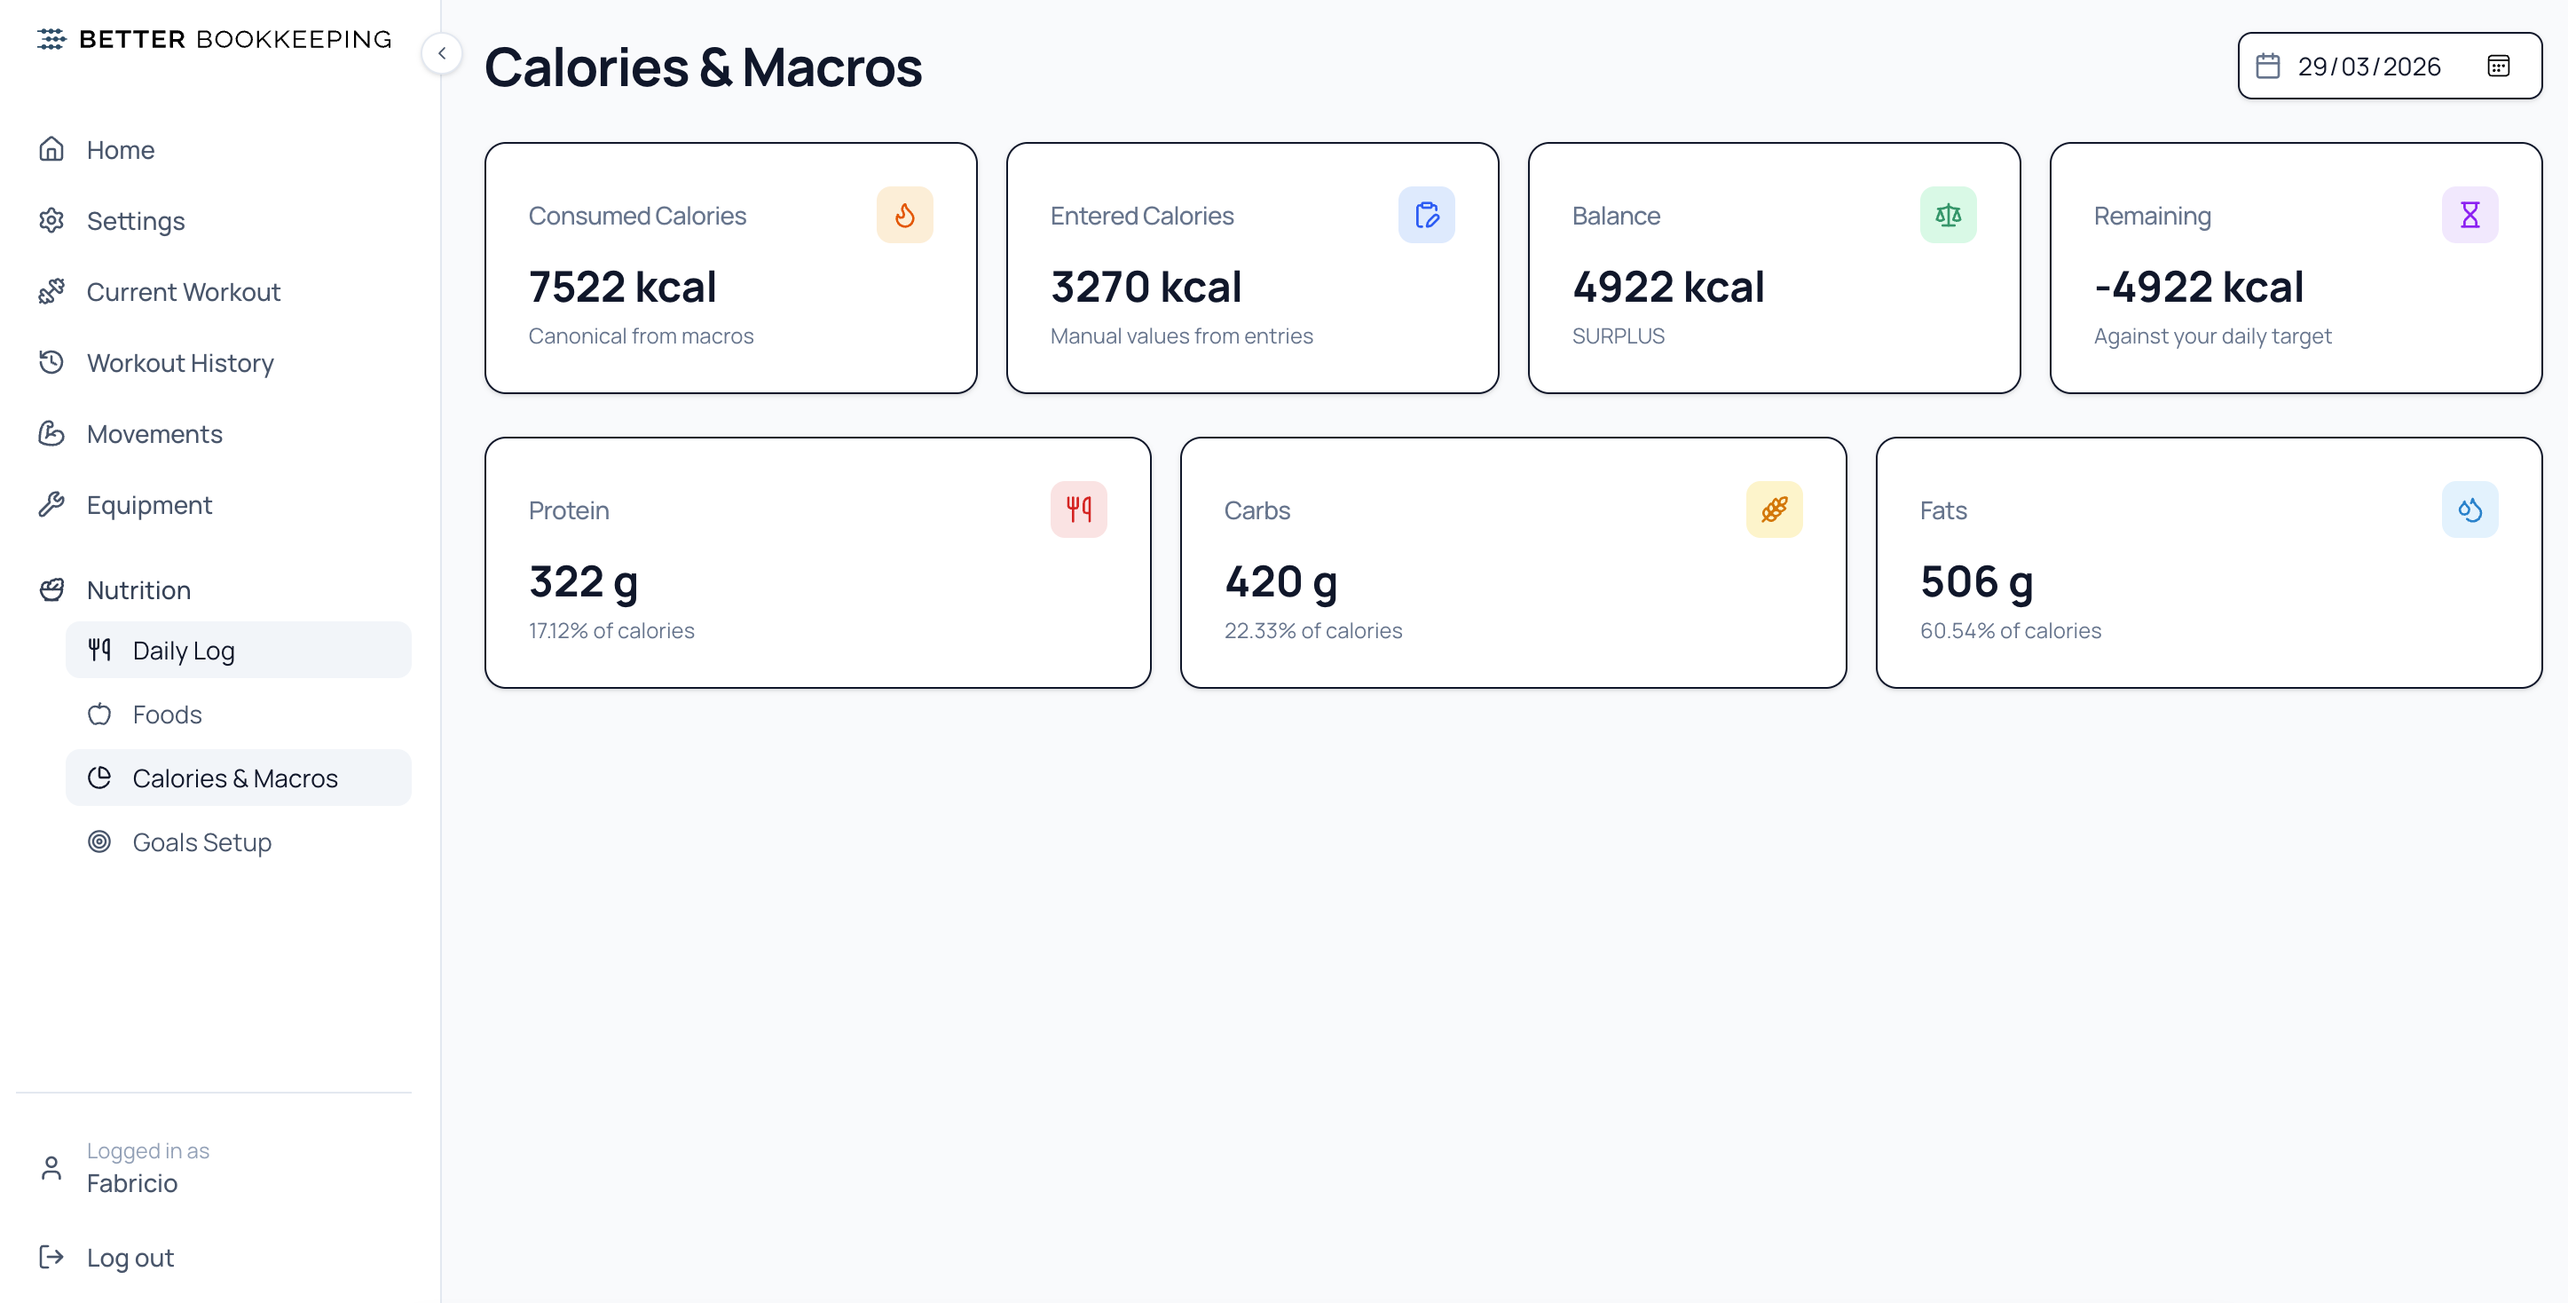
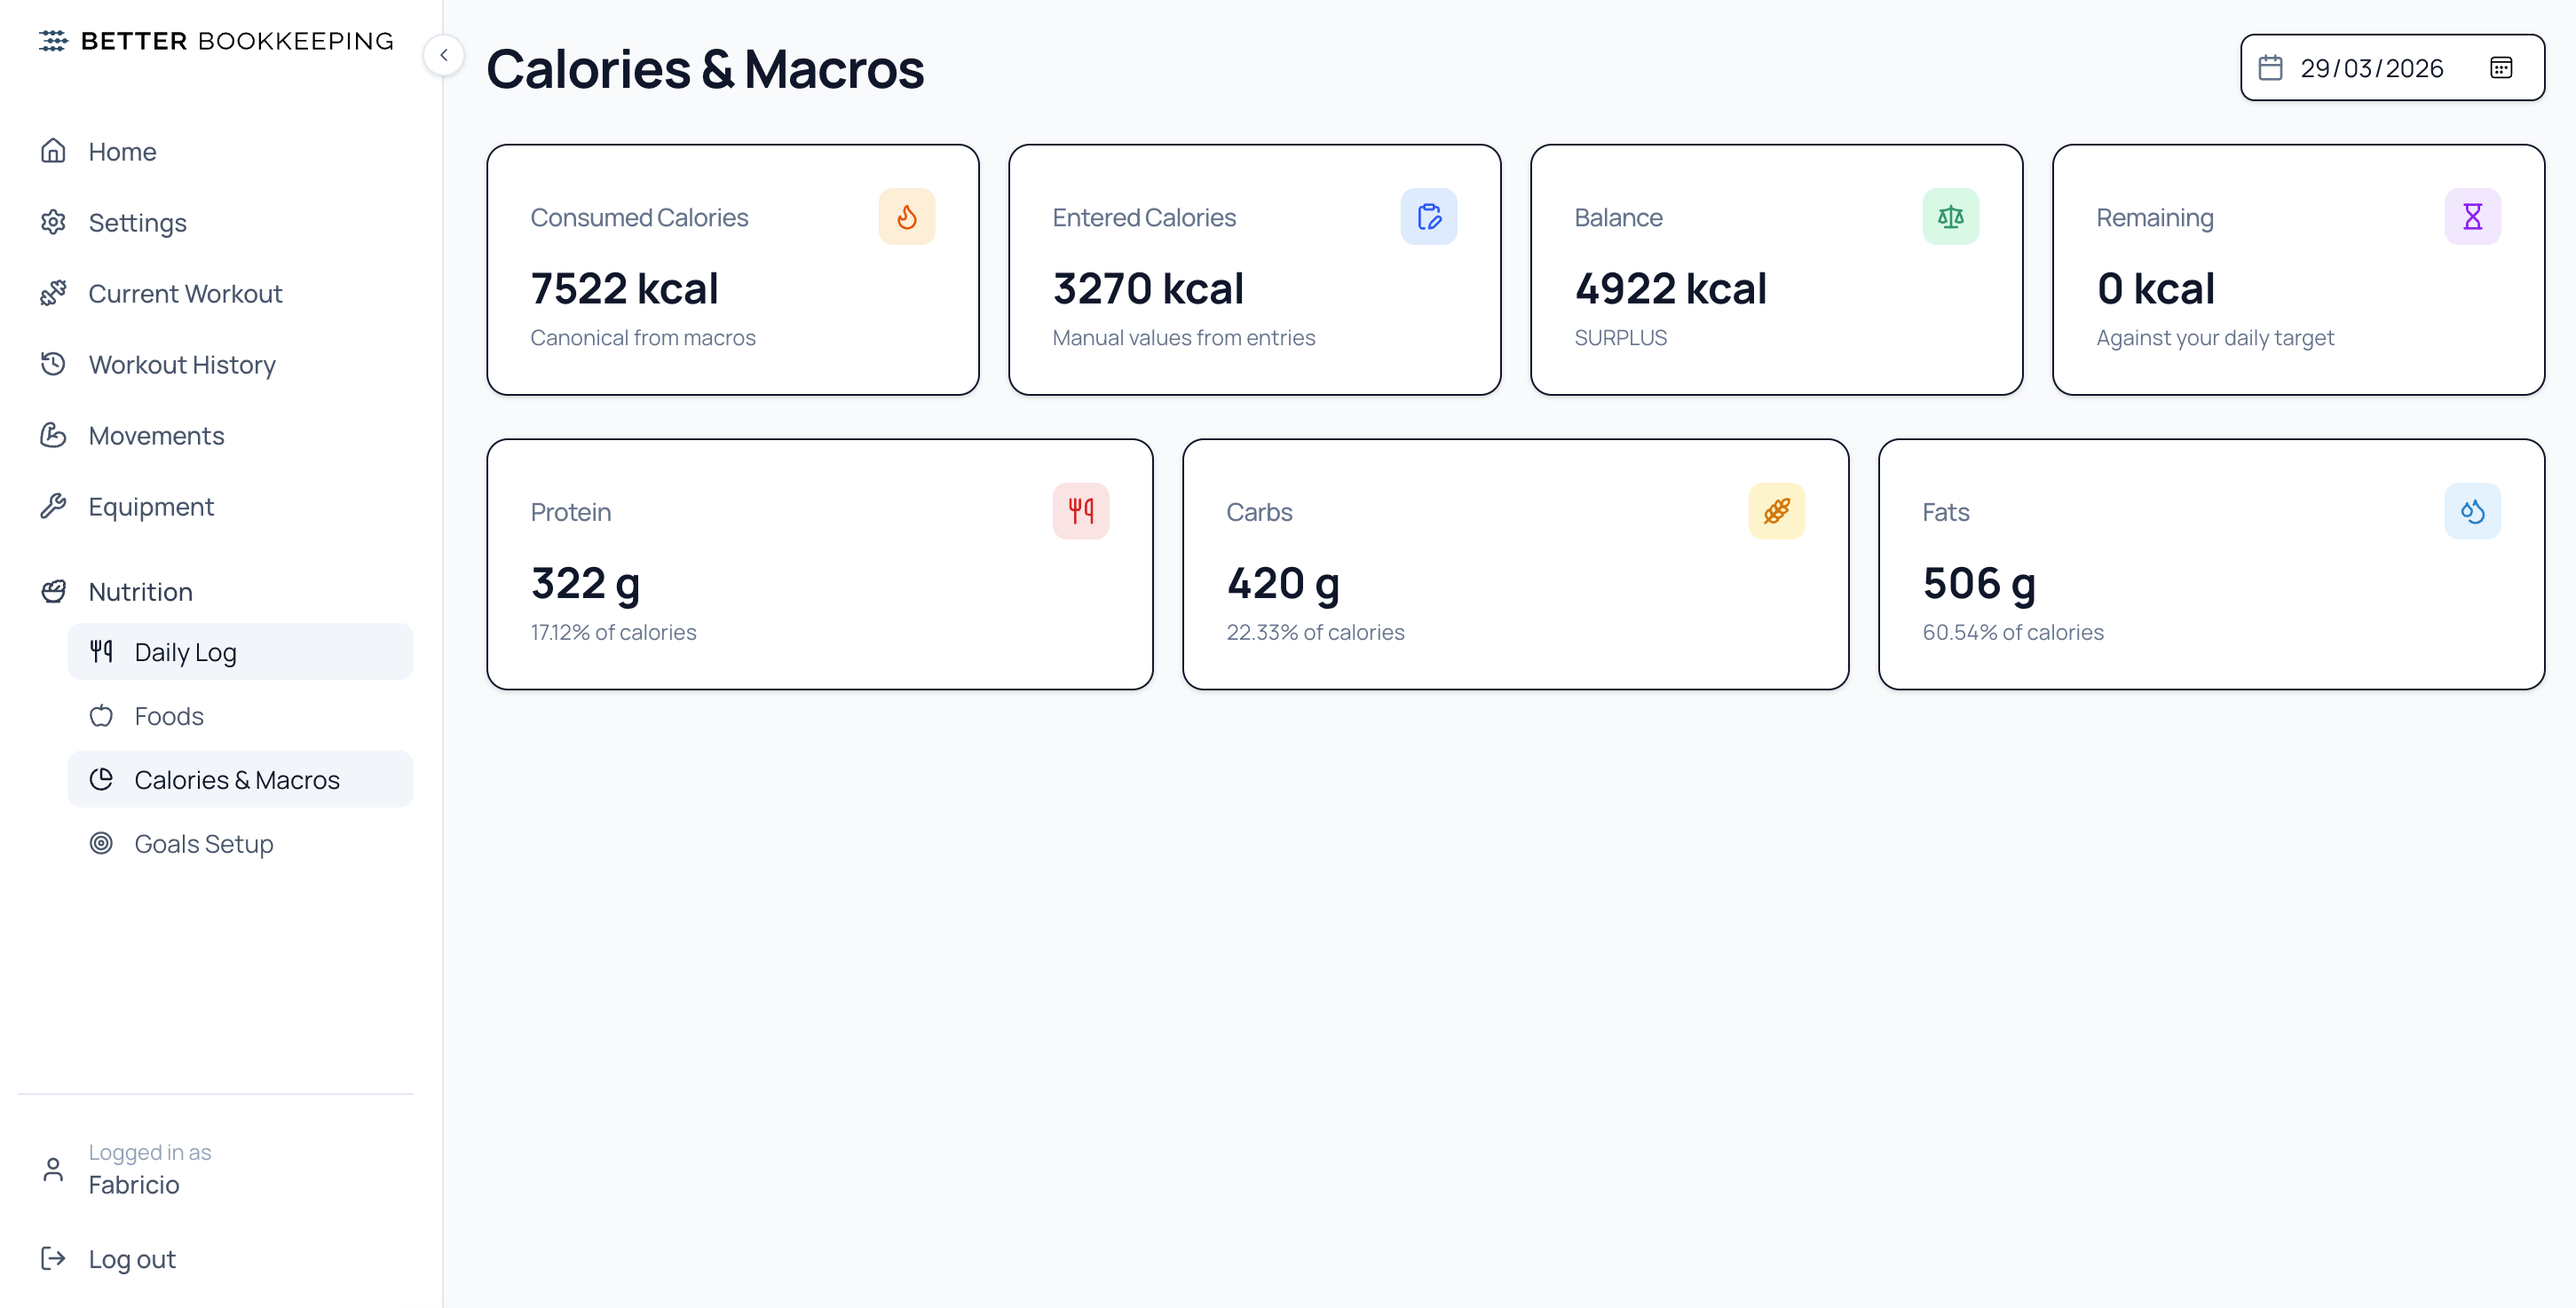
fix: update remaining calories calculation to ensure non-negative values and add data-testid for testing

diff --git a/src/components/features/nutrition/cards/calories-macros-overview.tsx b/src/components/features/nutrition/cards/calories-macros-overview.tsx
@@ -114,7 +114,9 @@ export function CaloriesMacrosOverview({
           <CardContent>
             {goalContext.hasGoals ? (
               <>
-                <div className="text-2xl font-bold text-slate-900">{goalContext.remainingCalories} kcal</div>
+                <div data-testid="remaining-calories-value" className="text-2xl font-bold text-slate-900">
+                  {goalContext.remainingCalories} kcal
+                </div>
                 <p className="text-xs text-slate-500 mt-1">Against your daily target</p>
               </>
             ) : (

diff --git a/src/lib/features/nutrition/nutrition.server.ts b/src/lib/features/nutrition/nutrition.server.ts
@@ -197,7 +197,7 @@ export const getNutritionDailyLogServerFn = createServerFn()
 
     if (goals) {
       const balanceCalories = round2(dailyLog.totalCaloriesCanonical - goals.calorieTarget);
-      const remainingCalories = round2(goals.calorieTarget - dailyLog.totalCaloriesCanonical);
+      const remainingCalories = Math.max(0, round2(goals.calorieTarget - dailyLog.totalCaloriesCanonical));
       goalContext.calorieTarget = goals.calorieTarget;
       goalContext.proteinTargetG = goals.proteinTargetG;
       goalContext.carbsTargetG = goals.carbsTargetG;
